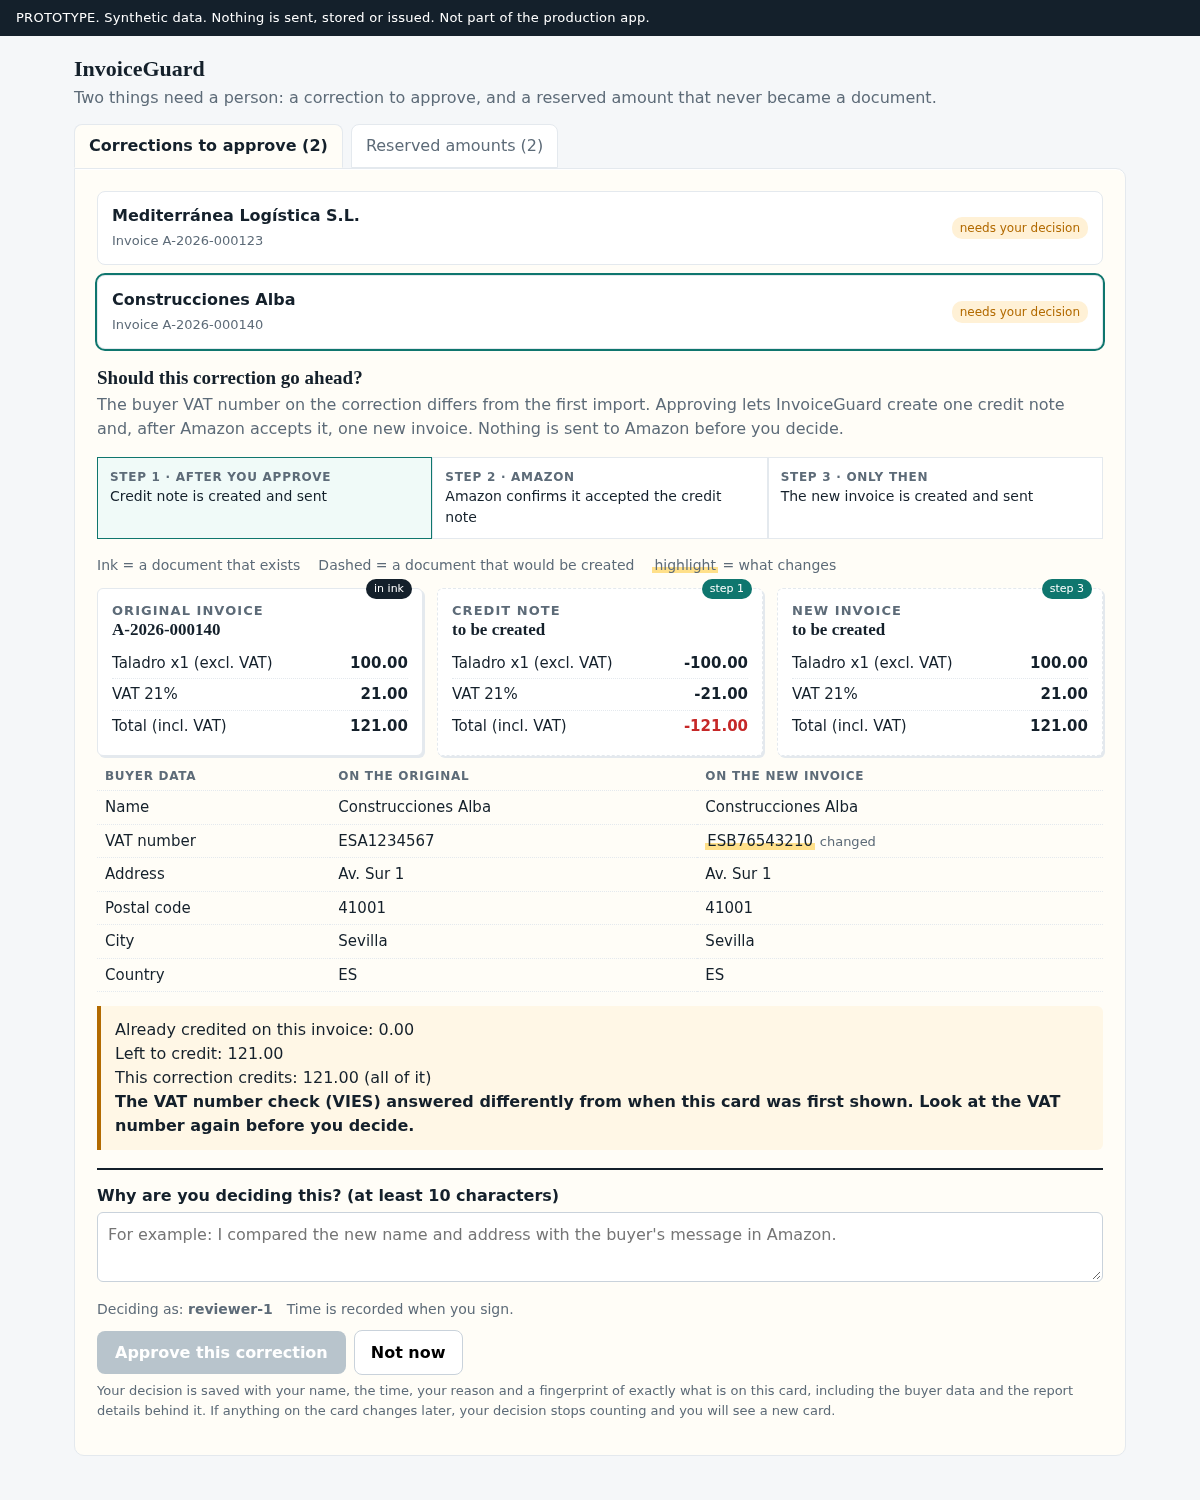
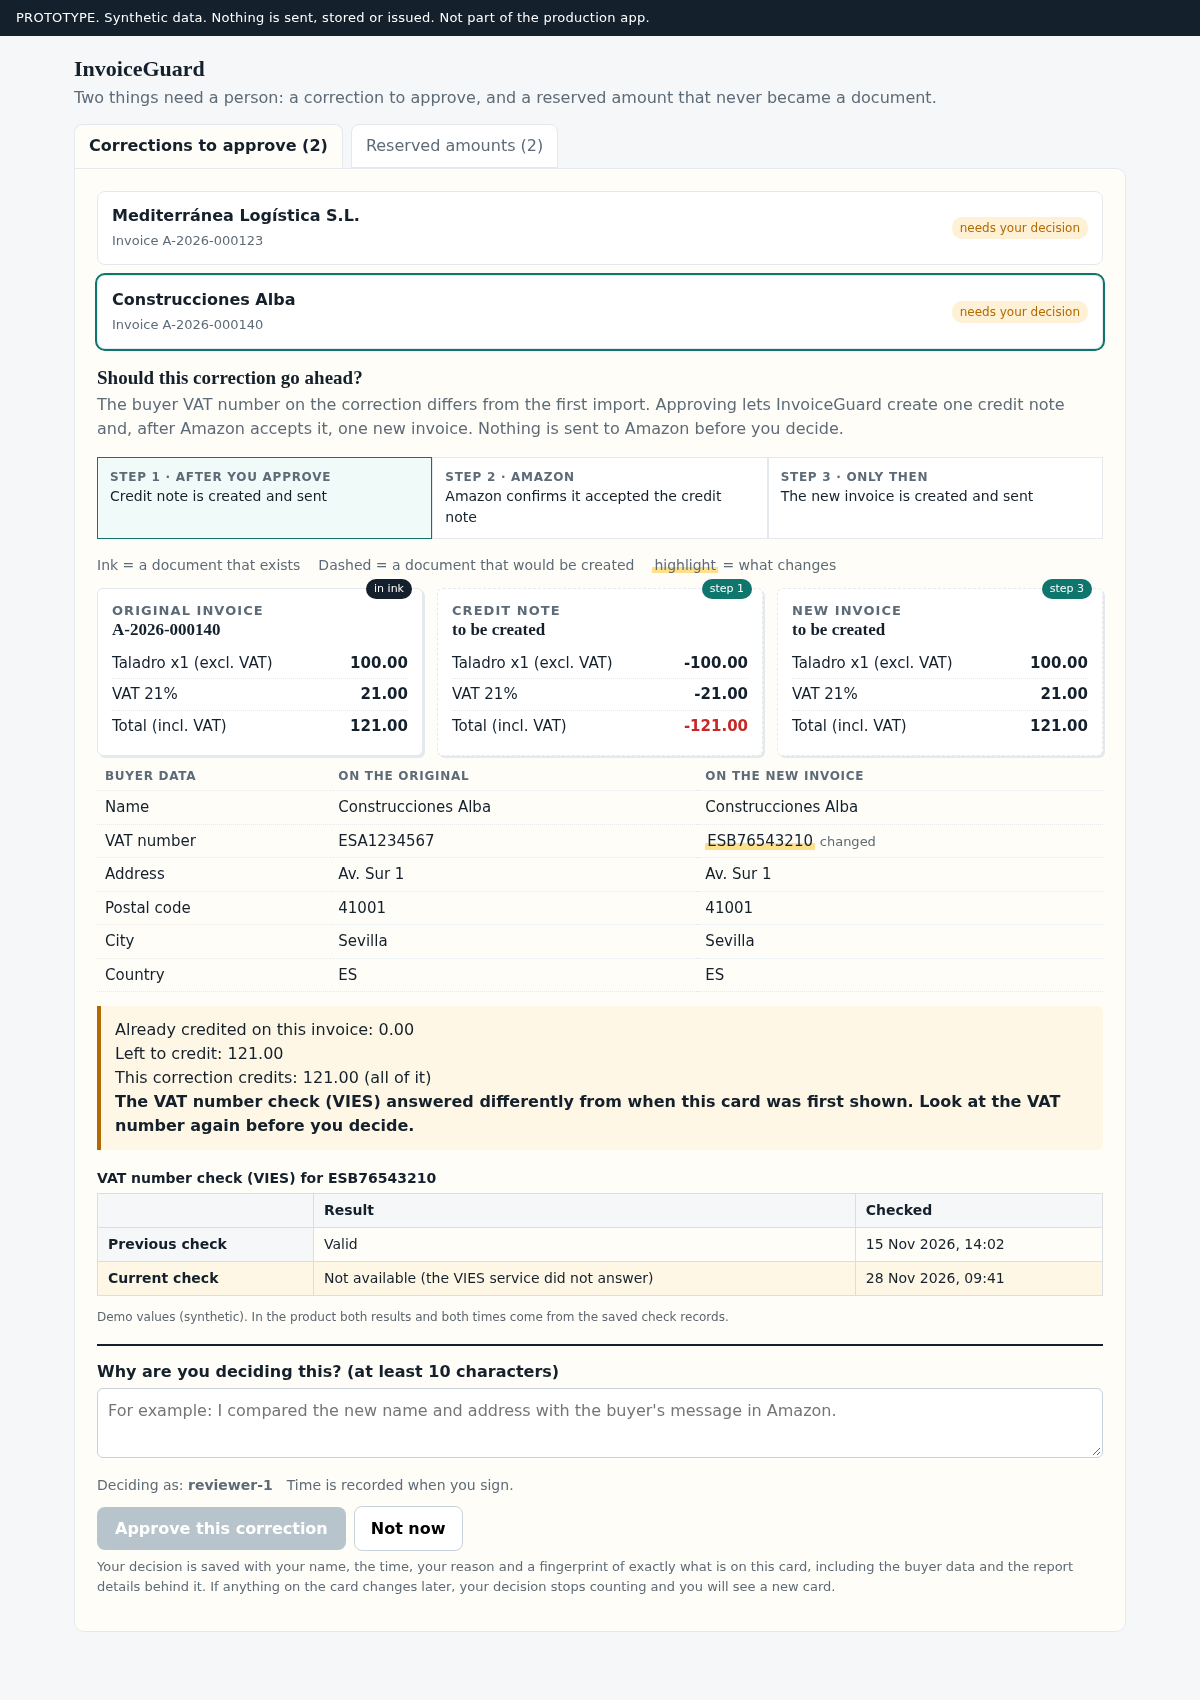
proto(decision-card): VIES previous/current result with both check times; reserved-amount screen states 'no issuance running' only when proven

diff --git a/prototype/decision-card/index.html b/prototype/decision-card/index.html
@@ -15,6 +15,7 @@ main{max-width:1100px;margin:0 auto;padding:0 24px 40px}.sheet{background:var(--
 .row{display:flex;justify-content:space-between;gap:10px;padding:4px 0;border-bottom:1px dotted var(--line);font-size:15px}.row:last-child{border:0}.row b{font-weight:600}
 .chg{background:linear-gradient(transparent 60%,#ffe08a 60%);padding:0 2px}.neg{color:var(--red)}
 .ribbon{position:absolute;top:-10px;right:10px;font-size:11px;padding:2px 8px;border-radius:10px;color:#fff}.ink{background:var(--ink)}.nib{background:var(--pri)}
+.vies{border-collapse:collapse;margin:8px 0;width:100%;font-size:14px}.vies caption{text-align:left;font-weight:600;padding:4px 0}.vies th,.vies td{border:1px solid #d9dee3;padding:6px 10px;text-align:left}.vies th{background:#f5f7f9;font-weight:600}.vies tr.now td,.vies tr.now th{background:#fff7e6}.small{font-size:12px;color:#5c6670}
 .sums{margin:14px 0;padding:12px 14px;border-left:4px solid var(--pri);background:#f0faf8;border-radius:0 6px 6px 0}.sums.warn{border-color:var(--amb);background:#fff7e6}
 .decide{margin-top:18px;border-top:2px solid var(--ink);padding-top:14px}.decide label{display:block;font-weight:600;margin-bottom:4px}
 textarea{width:100%;min-height:70px;font:inherit;padding:10px;border:1px solid #c9d2db;border-radius:6px}
@@ -56,7 +57,7 @@ function renderCard(){const c=CARDS.find(x=>x.id===cur);if(!c){$('#card').innerH
  <div class=doc style="border-style:dashed"><span class="ribbon nib">step 1</span><h3>Credit note</h3><p class=no>to be created</p>${rows(c.credit.lines)}<div class="row slip"><span>Total (incl. VAT)</span><b class=neg>${c.credit.total}</b></div></div>
  <div class=doc style="border-style:dashed"><span class="ribbon nib">step 3</span><h3>New invoice</h3><p class=no>to be created</p>${rows(c.repl.lines)}<div class="row slip"><span>Total (incl. VAT)</span><b>${c.repl.total}</b></div></div></div>
  ${buyerTable(c)}
- <div class="sums ${c.warn?'warn':''}"><div>Already credited on this invoice: ${c.balance.already}</div><div>Left to credit: ${c.balance.left}</div><div>This correction credits: ${c.balance.thisOne} (all of it)</div>${c.warn?`<div><b>${esc(c.warnText)}</b></div>`:''}</div>
+ <div class="sums ${c.warn?'warn':''}"><div>Already credited on this invoice: ${c.balance.already}</div><div>Left to credit: ${c.balance.left}</div><div>This correction credits: ${c.balance.thisOne} (all of it)</div>${c.warn?`<div><b>${esc(c.warnText)}</b></div>`:''}</div>${c.vies?`<table class="vies"><caption>VAT number check (VIES) for ${esc(c.vies.vat)}</caption><tr><th></th><th>Result</th><th>Checked</th></tr><tr><th>Previous check</th><td>${esc(c.vies.previous.result)}</td><td>${esc(c.vies.previous.checkedAt)}</td></tr><tr class="now"><th>Current check</th><td>${esc(c.vies.current.result)}</td><td>${esc(c.vies.current.checkedAt)}</td></tr></table><p class="small">${esc(c.vies.note)}</p>`:''}
  <div class=decide><label for=why>Why are you deciding this? (at least 10 characters)</label><textarea id=why placeholder="For example: I compared the new name and address with the buyer's message in Amazon."></textarea>
  <div class=who><span>Deciding as: <b>reviewer-1</b></span><span id=when></span></div>
  <button class=go id=ok disabled>Approve this correction</button><button class=no id=no>Not now</button>
@@ -66,20 +67,20 @@ function renderCard(){const c=CARDS.find(x=>x.id===cur);if(!c){$('#card').innerH
  const t=$('#why'),b=$('#ok');t.oninput=()=>{b.disabled=t.value.trim().length<10};
  b.onclick=()=>{$('#st').style.display='block';$('#sm').textContent='by reviewer-1, reason saved, fingerprint 9f3a…c1 (prototype only)';b.disabled=true;t.disabled=true};
  $('#no').onclick=()=>{cur=null;renderList();renderCard()}}
-const CHECKS=p=>[['No credit note exists for this event',true],['No upload is waiting or in progress',true],['No issuance is running on it right now',true],['Reserved more than 15 minutes ago (time alone is never proof, it is only one of the checks)',true]];
+const CHECKS=p=>[['No credit note exists for this event',true],['No upload is waiting or in progress',true],p.issuance.proven?['No issuance is running: the process that was issuing it has ended (checked by InvoiceGuard)',true]:p.issuance.state==='alive'?['An issuance is still running: nothing can be released',false]:['It cannot be proven whether an issuance is running (no owner record, or it cannot be checked): nothing can be released',false],['Reserved more than 15 minutes ago (time alone is never proof, it is only one of the checks)',true]];
 function renderPencil(){ const own=PENCIL.filter(p=>!p.owned),ink=PENCIL.filter(p=>p.owned);
- $('#pencillist').innerHTML=own.map(p=>`<div class=item role=button tabindex=0 data-id=${p.id} aria-current=${pcur===p.id}><span><b>Invoice ${p.invNo}</b><br><span class=hint>Reserved <span class=pencil>${p.amt}</span> ${p.since}</span></span><span class=tag>Eligible for human review</span></div>`).join('')||'<p class=hint>None.</p>';
+ $('#pencillist').innerHTML=own.map(p=>`<div class=item role=button tabindex=0 data-id=${p.id} aria-current=${pcur===p.id}><span><b>Invoice ${p.invNo}</b><br><span class=hint>Reserved <span class=pencil>${p.amt}</span> ${p.since}</span></span><span class=tag>${p.issuance.proven?'Eligible for human review':'Cannot be released: owner not proven gone'}</span></div>`).join('')||'<p class=hint>None.</p>';
  $('#inklist').innerHTML=ink.map(p=>`<div class=item style="cursor:default"><span><b>Invoice ${p.invNo}</b><br><span class=hint>${p.amt} is counted by credit note ${p.doc} (${p.docState})</span></span><span class="tag ink">in ink</span></div>`).join('');
  document.querySelectorAll('#pencillist .item').forEach(e=>{e.onclick=()=>{pcur=e.dataset.id;renderPencil();renderP()};e.onkeydown=k=>{if(k.key==='Enter')e.click()}})}
 function renderP(){const p=PENCIL.find(x=>x.id===pcur);if(!p||p.owned){$('#pcard').innerHTML='<p class=why>Pick a reservation above to review it.</p>';return}
  $('#pcard').innerHTML=`<p class=q>Review this reservation</p><p class=why>${p.amt} is reserved on invoice ${p.invNo}. It keeps that amount from being credited twice. It was set when a correction was approved and it never expires by itself. InvoiceGuard will not release it for you: a person decides, and only when these checks hold.</p>
  <div class=sums><span class=pencil>${p.amt} reserved in pencil</span></div>
- <ul class=checks>${CHECKS(p).map(c=>`<li>${c[0]}</li>`).join('')}</ul>
+ <ul class=checks>${CHECKS(p).map(c=>`<li class="${c[1]?'':'bad'}">${c[1]?'':'<b>Not met: </b>'}${c[0]}</li>`).join('')}</ul>
  <div class=decide><label for=pw>Why are you releasing it? (at least 10 characters)</label><textarea id=pw placeholder="For example: the app stopped during that run and no credit note was created."></textarea>
  <button class=go id=pok disabled>Release reservation</button>
  <p class=hint><b>Releasing the reservation cancels the earlier approval of this correction.</b> A new approval is needed before anything is created. The release is saved with your name, the time and your reason, and the history is kept.</p>
  <div class=stamp id=pst>Reservation released<small>by reviewer-1, reason saved, history kept (prototype only)</small></div></div>`;
- const t=$('#pw'),b=$('#pok');t.oninput=()=>{b.disabled=t.value.trim().length<10};b.onclick=()=>{$('#pst').style.display='block';b.disabled=true;t.disabled=true}}
+ const t=$('#pw'),b=$('#pok'),okc=CHECKS(p).every(c=>c[1]);if(!okc){t.disabled=true;t.placeholder='Release is not possible while a check is not met.'}t.oninput=()=>{b.disabled=!okc||t.value.trim().length<10};b.onclick=()=>{$('#pst').style.display='block';b.disabled=true;t.disabled=true}}
 document.querySelectorAll('nav button').forEach(b=>b.onclick=()=>{document.querySelectorAll('nav button').forEach(x=>x.setAttribute('aria-selected',x===b));$('#cards').hidden=b.dataset.tab!=='cards';$('#pencil').hidden=b.dataset.tab!=='pencil'});
 renderList();renderCard();renderPencil();renderP();
 const h=location.hash.slice(1);if(h.startsWith('c')){cur=h;renderList();renderCard()}if(h.startsWith('p')){pcur=h;document.querySelector('[data-tab=pencil]').click();renderPencil();renderP()}

diff --git a/prototype/decision-card/data.check.test.js b/prototype/decision-card/data.check.test.js
@@ -9,3 +9,17 @@ for (const c of d.cards) {
 }
 test('data.js is exactly what gen-data.mjs builds from the fixture', () => { const f = readFileSync(new URL('./data.js', import.meta.url), 'utf8'); assert.equal(f, '// generated by gen-data.mjs from fixtures/vidr.tsv (synthetic). Do not edit by hand.\nwindow.PROTO_DATA=' + JSON.stringify(d, null, 1) + ';\n'); });
 test('the previous prototype bug (lines 111.00 + VAT 31.00 shown as 121.00) cannot appear: no document shows lines that do not add up to its total', () => { for (const c of d.cards) for (const k of ['orig', 'credit', 'repl']) assert.equal(c[k].lines.reduce((a, r) => a + cents(r[1]), 0), cents(c[k].total)); });
+
+test('the VIES warning shows the previous result, the current result and the time of each check, and they differ', () => {
+  const c = d.cards.find(x => x.vies); assert.ok(c, 'a card carries the VIES comparison');
+  for (const k of ['previous', 'current']) { assert.ok(c.vies[k].result && c.vies[k].checkedAt, k + ' has result and time'); assert.doesNotMatch(JSON.stringify(c.vies[k]), /undefined|null|UTC|Z\b/, k + ' is seller-readable'); }
+  assert.notEqual(c.vies.previous.result, c.vies.current.result); assert.ok(c.warn, 'the card is flagged'); assert.equal(c.vies.vat, c.buyerAfter.vat);
+  const h = readFileSync(new URL('./index.html', import.meta.url), 'utf8'); assert.match(h, /Previous check/); assert.match(h, /Current check/);
+});
+
+test('the Reserved amounts screen never says "No issuance is running" unless the data proves it, and release is blocked otherwise', () => {
+  const h = readFileSync(new URL('./index.html', import.meta.url), 'utf8'); assert.doesNotMatch(h, /No issuance is running on it right now/, 'no hardcoded claim');
+  for (const p of d.pencil.filter(x => !x.owned)) assert.ok(p.issuance && typeof p.issuance.proven === 'boolean', p.id + ' has an issuance state');
+  assert.ok(d.pencil.some(p => !p.owned && p.issuance.proven === false), 'the demo includes an unproven case'); assert.ok(d.pencil.some(p => !p.owned && p.issuance.proven === true));
+  assert.match(h, /p\.issuance\.proven\?\['No issuance is running/); assert.match(h, /okc/);
+});

diff --git a/prototype/decision-card/data.js b/prototype/decision-card/data.js
@@ -178,6 +178,18 @@ window.PROTO_DATA={
    },
    "reason": "The buyer VAT number on the correction differs from the first import.",
    "warn": true,
+   "vies": {
+    "vat": "ESB76543210",
+    "previous": {
+     "result": "Valid",
+     "checkedAt": "15 Nov 2026, 14:02"
+    },
+    "current": {
+     "result": "Not available (the VIES service did not answer)",
+     "checkedAt": "28 Nov 2026, 09:41"
+    },
+    "note": "Demo values (synthetic). In the product both results and both times come from the saved check records."
+   },
    "warnText": "The VAT number check (VIES) answered differently from when this card was first shown. Look at the VAT number again before you decide."
   }
  ],
@@ -187,7 +199,22 @@ window.PROTO_DATA={
    "invNo": "A-2026-000123",
    "amt": "54.45",
    "since": "2 days ago",
-   "owned": false
+   "owned": false,
+   "issuance": {
+    "state": "gone",
+    "proven": true
+   }
+  },
+  {
+   "id": "p3",
+   "invNo": "A-2026-000151",
+   "amt": "121.00",
+   "since": "2 days ago",
+   "owned": false,
+   "issuance": {
+    "state": "unproven",
+    "proven": false
+   }
   },
   {
    "id": "p2",
